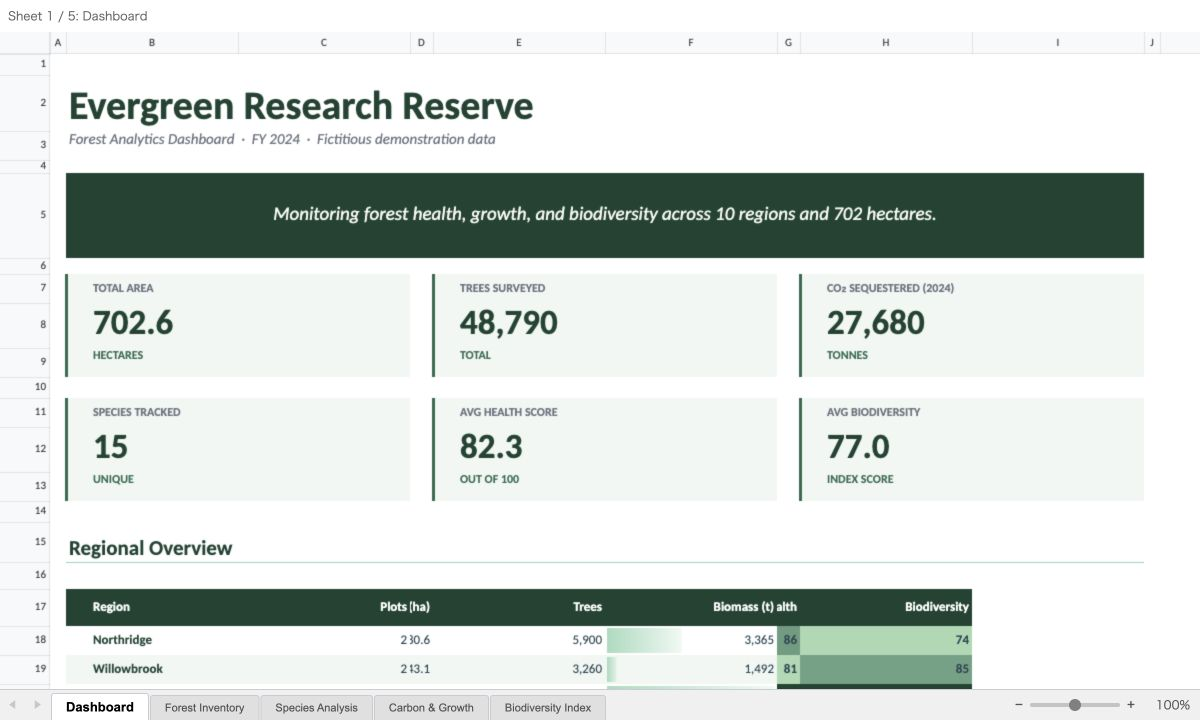
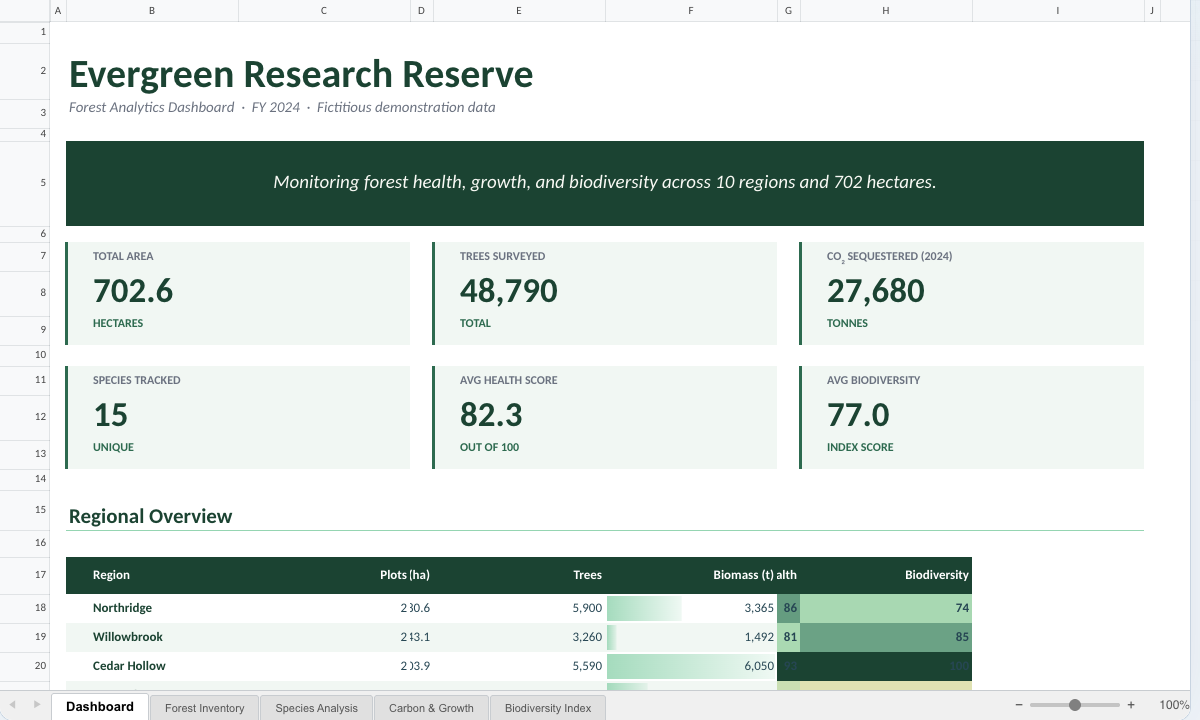
chore(release): 0.75.4
Release the DOCX DrawingML fidelity and circular style inheritance fixes together with the framework-specific StackBlitz guides. Refresh public preview images, consolidate README framework guidance, and keep package, site, extension, and MCP server versions aligned.\n\nVerified with cargo check -p ooxml-mcp-server, 6,413 Vitest cases, TypeScript project and package checks, all framework example builds, the public site build, the package build, Storybook static build, and diff validation.\n\nCo-Authored-By: Codex GPT-5 <noreply@openai.com>

diff --git a/README.md b/README.md
@@ -30,7 +30,7 @@ So I'm building this library with AI coding agents, spec-first, and keeping it f
 
 A browser-based viewer for Office Open XML documents that renders to an HTML Canvas element.
 The parsers are written in Rust and compiled to WebAssembly; the renderers use the Canvas 2D API.
-Each format also exposes a headless engine (`DocxDocument` / `XlsxWorkbook` / `PptxPresentation`) that renders into any caller-supplied canvas, so you can compose your own UI — scroll views, thumbnail grids, master-detail panes — instead of being locked into the built-in viewer. See the `Examples` section in [the Storybook demo](https://ooxml.silurus.dev/storybook/).
+Each format also exposes a headless engine (`DocxDocument` / `XlsxWorkbook` / `PptxPresentation`) that renders into any caller-supplied canvas, so you can compose your own UI — scroll views, thumbnail grids, master-detail panes — instead of being locked into the built-in viewer. See the [live framework examples](https://ooxml.silurus.dev/frameworks/) for runnable React, Vue, Svelte, and Solid projects.
 
 ## Project scope: read-only viewing
 
@@ -61,8 +61,9 @@ pnpm add @silurus/ooxml
 >   `new URL` asset references are not processed
 >   ([esbuild#795](https://github.com/evanw/esbuild/issues/795)). Copy the
 >   `.wasm` into your served output and point the viewer at it with the
->   `wasmUrl` load option — see the [Angular example](#framework-examples) for
->   the two-step setup.
+>   `wasmUrl` load option. For Angular CLI, copy the required
+>   `*_parser_bg.wasm` asset from `node_modules/@silurus/ooxml/dist` into the
+>   served output and pass its public URL to the viewer.
 >
 > `wasmUrl` also serves the parser WASM from a CDN or any path you control:
 >
@@ -394,256 +395,13 @@ All three formats follow the same shape: the worker parses the `.docx` / `.xlsx`
 
 ## Framework Examples
 
-<details>
-<summary><strong>React 19</strong></summary>
-
-```tsx
-// React 19.1 — Vite copies the parser .wasm asset automatically; no extra plugin needed.
-import { useEffect, useRef, useState } from 'react';
-import { PptxViewer } from '@silurus/ooxml/pptx';
-
-export function PptxViewerComponent({ src }: { src: string }) {
-  const canvasRef  = useRef<HTMLCanvasElement>(null);
-  const viewerRef  = useRef<PptxViewer | null>(null);
-  const [slide, setSlide] = useState({ current: 0, total: 0 });
-
-  useEffect(() => {
-    const canvas = canvasRef.current;
-    if (!canvas) return;
-
-    const viewer = new PptxViewer(canvas, {
-      onSlideChange: (i, total) => setSlide({ current: i, total }),
-    });
-    viewerRef.current = viewer;
-    viewer.load(src);
-  }, [src]);
-
-  return (
-    <div>
-      <canvas ref={canvasRef} style={{ width: 800 }} />
-      <button onClick={() => viewerRef.current?.prevSlide()}>‹ Prev</button>
-      <span> {slide.current + 1} / {slide.total} </span>
-      <button onClick={() => viewerRef.current?.nextSlide()}>Next ›</button>
-    </div>
-  );
-}
-```
-
-</details>
-
-<details>
-<summary><strong>Vue 3.5</strong></summary>
-
-```vue
-<!-- Vue 3.5 — useTemplateRef is a 3.5+ feature -->
-<script setup lang="ts">
-import { useTemplateRef, onMounted, ref } from 'vue';
-import { PptxViewer } from '@silurus/ooxml/pptx';
-
-const props = defineProps<{ src: string }>();
-
-const canvas  = useTemplateRef<HTMLCanvasElement>('canvas');
-let viewer: PptxViewer | null = null;
-const current = ref(0);
-const total   = ref(0);
-
-onMounted(async () => {
-  viewer = new PptxViewer(canvas.value as HTMLCanvasElement, {
-    onSlideChange: (i, t) => { current.value = i; total.value = t; },
-  });
-  await viewer.load(props.src);
-});
-</script>
-
-<template>
-  <div>
-    <canvas ref="canvas" style="width: 800px" />
-    <button @click="viewer?.prevSlide()">‹ Prev</button>
-    <span> {{ current + 1 }} / {{ total }} </span>
-    <button @click="viewer?.nextSlide()">Next ›</button>
-  </div>
-</template>
-```
-
-</details>
-
-<details>
-<summary><strong>Angular 19</strong></summary>
-
-The Angular CLI's esbuild-based builder does not process the `new URL('…', import.meta.url)`
-asset reference the parsers use ([angular-cli#22388](https://github.com/angular/angular-cli/issues/22388)),
-so the `.wasm` never reaches the build output — and under `ng serve` the dependency
-optimizer additionally rewrites the reference into its own cache path. **Both steps
-below are required** (the asset copy alone fixes only production builds; `ng serve`
-still 404s without `wasmUrl`):
-
-```jsonc
-// angular.json — copy the parser WASM into the served root
-// (restart `ng serve` after editing this file)
-"architect": {
-  "build": {
-    "options": {
-      "assets": [
-        { "glob": "*_parser_bg.wasm", "input": "node_modules/@silurus/ooxml/dist", "output": "/" },
-        { "glob": "**/*", "input": "public" }
-      ]
-    }
-  }
-}
-```
-
-```typescript
-// Angular 19 — standalone component with signal-based state
-import {
-  Component, ElementRef, viewChild,
-  signal, AfterViewInit,
-} from '@angular/core';
-import { PptxViewer } from '@silurus/ooxml/pptx';
-
-@Component({
-  selector: 'app-pptx-viewer',
-  standalone: true,
-  template: `
-    <div>
-      <canvas #canvas style="width: 800px"></canvas>
-      <button (click)="prev()">‹ Prev</button>
-      <span> {{ current() + 1 }} / {{ total() }} </span>
-      <button (click)="next()">Next ›</button>
-    </div>
-  `,
-})
-export class PptxViewerComponent implements AfterViewInit {
-  canvasEl = viewChild.required<ElementRef<HTMLCanvasElement>>('canvas');
-  current = signal(0);
-  total   = signal(0);
-  private viewer?: PptxViewer;
-
-  ngAfterViewInit(): void {
-    this.viewer = new PptxViewer(this.canvasEl().nativeElement, {
-      wasmUrl: '/pptx_parser_bg.wasm',
-      onSlideChange: (i, t) => { this.current.set(i); this.total.set(t); },
-    });
-    this.viewer.load('/deck.pptx');
-  }
-
-  prev(): void { this.viewer?.prevSlide(); }
-  next(): void { this.viewer?.nextSlide(); }
-}
-```
-
-> The `*_parser_bg.wasm` glob copies all three parsers; narrow it to
-> `pptx_parser_bg.wasm` if you only use one format. If you deploy under a
-> non-root `base href`, adjust `wasmUrl` so it resolves under your base (a
-> relative `wasmUrl` is resolved against the document URL).
-
-</details>
-
-<details>
-<summary><strong>Svelte 5</strong></summary>
-
-```svelte
-<!-- Svelte 5 — runes syntax ($props, $state) -->
-<script lang="ts">
-  import { onMount } from 'svelte';
-  import { PptxViewer } from '@silurus/ooxml/pptx';
-
-  let { src }: { src: string } = $props();
-
-  let canvas: HTMLCanvasElement;
-  let viewer: PptxViewer;
-  let current = $state(0);
-  let total   = $state(0);
-
-  onMount(async () => {
-    viewer = new PptxViewer(canvas, {
-      onSlideChange: (i, t) => { current = i; total = t; },
-    });
-    await viewer.load(src);
-  });
-</script>
-
-<div>
-  <canvas bind:this={canvas} style="width: 800px"></canvas>
-  <button onclick={() => viewer?.prevSlide()}>‹ Prev</button>
-  <span> {current + 1} / {total} </span>
-  <button onclick={() => viewer?.nextSlide()}>Next ›</button>
-</div>
-```
-
-</details>
-
-<details>
-<summary><strong>SolidJS 1.9</strong></summary>
-
-```tsx
-// SolidJS 1.9
-import { createSignal, onMount, onCleanup } from 'solid-js';
-import { PptxViewer } from '@silurus/ooxml/pptx';
-
-export function PptxViewerComponent(props: { src: string }) {
-  let canvasEl!: HTMLCanvasElement;
-  let viewer: PptxViewer | undefined;
-  const [current, setCurrent] = createSignal(0);
-  const [total,   setTotal  ] = createSignal(0);
-
-  onMount(async () => {
-    viewer = new PptxViewer(canvasEl, {
-      onSlideChange: (i, t) => { setCurrent(i); setTotal(t); },
-    });
-    await viewer.load(props.src);
-  });
-
-  onCleanup(() => { /* viewer?.destroy?.() */ });
-
-  return (
-    <div>
-      <canvas ref={canvasEl} style={{ width: '800px' }} />
-      <button onClick={() => viewer?.prevSlide()}>‹ Prev</button>
-      <span> {current() + 1} / {total()} </span>
-      <button onClick={() => viewer?.nextSlide()}>Next ›</button>
-    </div>
-  );
-}
-```
-
-</details>
-
-<details>
-<summary><strong>Qwik 2</strong></summary>
-
-```tsx
-// Qwik 2.0 — dynamic import to keep WASM out of SSR bundle
-import { component$, useSignal, useVisibleTask$ } from '@builder.io/qwik';
-import type { PptxViewer as PptxViewerType } from '@silurus/ooxml/pptx';
-
-export const PptxViewerComponent = component$<{ src: string }>(({ src }) => {
-  const canvasRef = useSignal<HTMLCanvasElement>();
-  const current = useSignal(0);
-  const total   = useSignal(0);
-  let viewer: PptxViewerType | undefined;
-
-  // useVisibleTask$ runs only in the browser, never during SSR
-  useVisibleTask$(async () => {
-    if (!canvasRef.value) return;
-    const { PptxViewer } = await import('@silurus/ooxml/pptx');
-    viewer = new PptxViewer(canvasRef.value, {
-      onSlideChange: (i, t) => { current.value = i; total.value = t; },
-    });
-    await viewer.load(src);
-  });
-
-  return (
-    <div>
-      <canvas ref={canvasRef} style={{ width: '800px' }} />
-      <button onClick$={() => viewer?.prevSlide()}>‹ Prev</button>
-      <span> {current.value + 1} / {total.value} </span>
-      <button onClick$={() => viewer?.nextSlide()}>Next ›</button>
-    </div>
-  );
-});
-```
-
-</details>
+Runnable TypeScript projects are available for
+[React](https://ooxml.silurus.dev/frameworks/react/),
+[Vue](https://ooxml.silurus.dev/frameworks/vue/),
+[Svelte](https://ooxml.silurus.dev/frameworks/svelte/), and
+[Solid](https://ooxml.silurus.dev/frameworks/solid/). Each guide embeds the
+complete StackBlitz project and supports selecting a local DOCX, XLSX, or PPTX
+file without uploading it.
 
 ---
 
@@ -689,7 +447,7 @@ export const PptxViewerComponent = component$<{ src: string }>(({ src }) => {
 | | Math equations (OMML `m:oMath` / `m:oMathPara`, rendered via MathJax — opt-in `@silurus/ooxml/math`) | ✅ |
 | | Images (inline and anchored, with text wrap) | ✅ |
 | | SVG images (`asvg:svgBlip` MS-2016 extension — vector drawn from the embedded `.svg`, raster fallback) | ✅ |
-| | Text boxes / drawing shapes (`wps:txbx`, `a:prstGeom` — 186 preset geometries via the shared engine; connector arrow heads `headEnd` / `tailEnd` (§20.1.8.3) and `prstDash` dash patterns (§20.1.8.48)). Text-box paragraphs run through the **same line-layout engine as body text**, so kinsoku 行頭/行末禁則 (§17.15.1.58–60), UAX#9 bidi (`w:bidi`, §17.3.1.6), justification (§17.18.44) and tab stops (§17.3.1.37) all apply inside a box | ✅ |
+| | Text boxes / drawing shapes (inline and anchored `wps:wsp` / `wps:txbx`, including solid, gradient, and image fills; `a:prstGeom` — 186 preset geometries via the shared engine; connector arrow heads `headEnd` / `tailEnd` (§20.1.8.3) and `prstDash` dash patterns (§20.1.8.48)). Text-box paragraphs run through the **same line-layout engine as body text**, so kinsoku 行頭/行末禁則 (§17.15.1.58–60), UAX#9 bidi (`w:bidi`, §17.3.1.6), justification (§17.18.44) and tab stops (§17.3.1.37) all apply inside a box | ✅ |
 | | WMF **and EMF** metafile images (legacy vector, incl. inside text boxes) — rasterized via a built-in player: window→viewport mapping (MS-EMF map modes, world transform), pens/brushes, poly/rect/ellipse, text-out, path clipping, and embedded DIB blits | ✅ |
 | | OLE embedded objects (`w:object` — the baked VML `v:imagedata` preview is drawn; the embedded app is not run) | ✅ |
 | **Advanced** | Footnotes — reference markers + bottom-of-page bodies with separator rule, numbered (`w:footnoteReference` / `w:footnoteRef`, §17.11) | ✅ |

diff --git a/CHANGELOG.md b/CHANGELOG.md
@@ -4,6 +4,28 @@ All notable changes to @silurus/ooxml are documented here. The project follows
 semantic versioning; minor releases add spec-compliant features or behavior
 changes that remain compatible with existing API surfaces.
 
+## 0.75.4 — 2026-08-04
+
+Patch. Improves Word DrawingML fidelity, safely handles malformed style
+inheritance, and adds runnable TypeScript integration guides.
+
+- **docx DrawingML:** preserve inline WordprocessingShape objects through
+  parsing, immutable layout, pagination, and paint; retain authored image fills
+  through the shared DrawingML fill model; and carry signed run positioning and
+  resolved page-field metrics without paint-time inference. (§§20.4.2.7–8,
+  20.1.8.14; #1146)
+- **docx styles:** detect circular `basedOn` inheritance by style ID and apply
+  every unique style once before terminating a malformed revisiting edge. Valid
+  paragraph, character, and table style chains remain unbounded by arbitrary
+  depth caps, while invalid input can no longer overflow the WASM stack.
+  (§17.7.4.3; MS-OI29500 §2.1.233; #1148)
+- **website / examples:** publish isolated TypeScript projects and independent,
+  search-oriented StackBlitz guides for React, Vue, Svelte, and Solid. The
+  public navigation now points to one framework chooser, redundant per-format
+  snippets and Storybook links are removed, DOCX teardown guidance uses the
+  current `destroy()` lifecycle, and npm discovery includes `office-viewer` and
+  `office` keywords. (#1146, #1147)
+
 ## 0.75.3 — 2026-08-04
 
 Patch. Restores Word-compatible DOCX pagination at signed `atLeast` spacing
